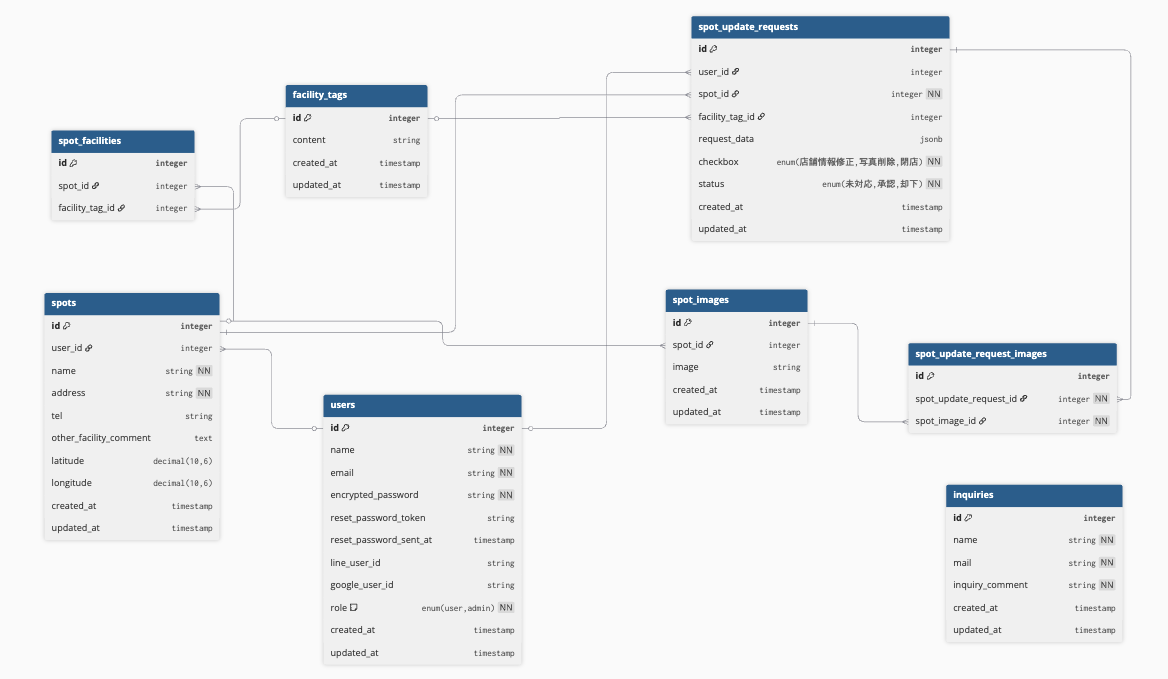
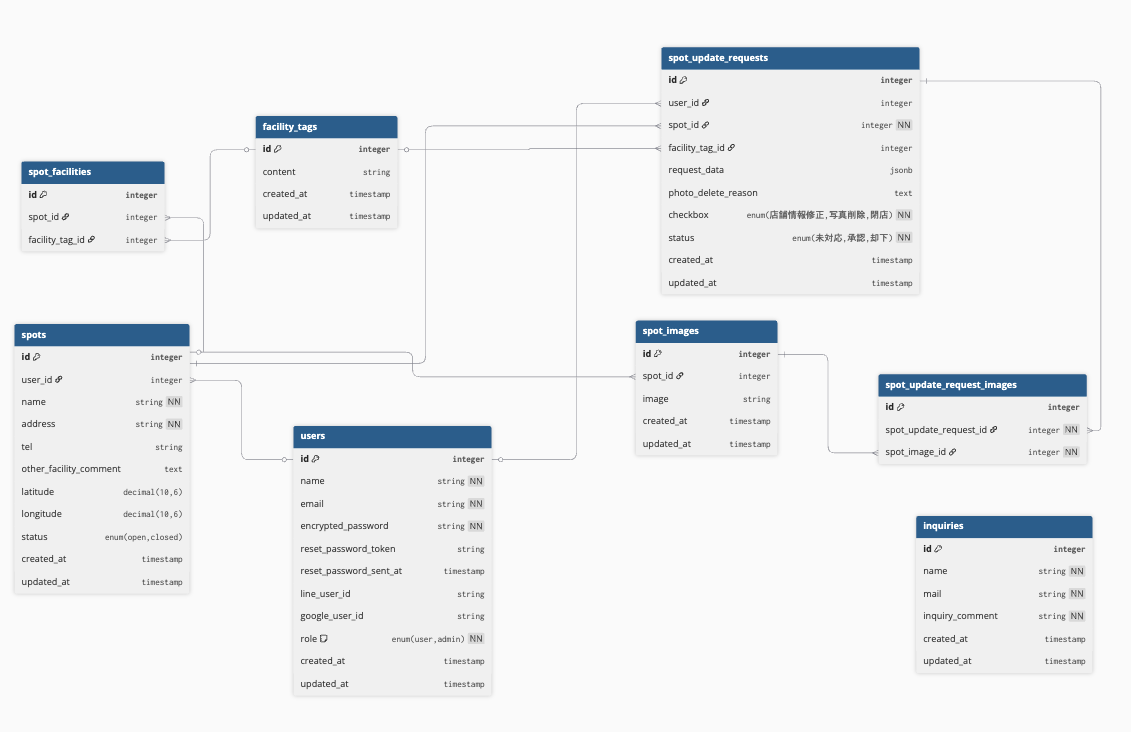
feat:各モデル修正 & docs: ER図に閉店ステータスカラムをspotsテーブルに追加

diff --git a/app/models/spot_update_request.rb b/app/models/spot_update_request.rb
@@ -6,12 +6,28 @@ class SpotUpdateRequest < ApplicationRecord
   belongs_to :facility_tag, optional: true
   has_many :spot_update_request_images, dependent: :destroy
 
-  validates :spot_id, presence: true
-  validates :checkbox, presence: true
-  validates :status, presence: true
-  validates :photo_delete_reason, presence: true
-
   # enum 定義
   enum checkbox: { spot_update: 0, image_delete: 1, closure: 2 }
   enum status: { pending: 0, approved: 1, rejected: 2 }
+
+  # ユーザー作成時バリデーション
+  with_options if: :user_submission? do
+    validates :checkbox, presence: true
+    # 写真削除依頼
+    validates :photo_delete_reason, presence: true, if: :image_delete?
+    validates :spot_update_request_images, presence: true, if: :image_delete?
+    # 店舗情報修正時
+    validate :spot_update_excludes_other_fields, if: :spot_update?
+    # 閉店依頼時
+    validate :closure_excludes_all_fields, if: :closure?
+  end
+
+  # 管理者編集時
+  with_options if: :admin_editing? do
+    validates :status, presence: true
+  end
+
+  # Concern 読み込み
+  # privateメゾットはapp/models/concerns/spot_update_request_private_methods.rbへ
+  include SpotUpdateRequestPrivateMethods
 end

diff --git a/app/models/concerns/spot_update_request_private_methods.rb b/app/models/concerns/spot_update_request_private_methods.rb
@@ -1,0 +1,26 @@
+# SpotUpdateRequest の private メソッド用
+module SpotUpdateRequestPrivateMethods
+  extend ActiveSupport::Concern
+
+  private
+
+  def image_delete?; checkbox == "image_delete"; end
+  def spot_update?; checkbox == "spot_update"; end
+  def closure?; checkbox == "closure"; end
+  def user_submission?; !admin_editing?; end
+  def admin_editing?; false; end
+
+  # 店舗情報修正時は写真削除できない
+  def spot_update_excludes_other_fields
+    if spot_update_request_images.any?
+      errors.add(:base, "店舗情報修正依頼のときは写真削除はできません")
+    end
+  end
+
+  # 閉店依頼時は写真削除も店舗情報修正もできない
+  def closure_excludes_all_fields
+    if spot_update_request_images.any? || facility_tag_id.present? || request_data.present?
+      errors.add(:base, "閉店依頼のときは写真削除や店舗情報変更はできません")
+    end
+  end
+end

diff --git a/db/schema.rb b/db/schema.rb
@@ -10,7 +10,7 @@
 #
 # It's strongly recommended that you check this file into your version control system.
 
-ActiveRecord::Schema[8.0].define(version: 2025_09_10_060519) do
+ActiveRecord::Schema[8.0].define(version: 2025_09_10_132923) do
   # These are extensions that must be enabled in order to support this database
   enable_extension "pg_catalog.plpgsql"
 
@@ -81,6 +81,7 @@ ActiveRecord::Schema[8.0].define(version: 2025_09_10_060519) do
     t.decimal "longitude", precision: 10, scale: 6
     t.datetime "created_at", null: false
     t.datetime "updated_at", null: false
+    t.integer "status", default: 0, null: false
     t.index ["address"], name: "index_spots_on_address"
     t.index ["user_id"], name: "index_spots_on_user_id"
   end

diff --git a/app/models/spot.rb b/app/models/spot.rb
@@ -1,11 +1,15 @@
 class Spot < ApplicationRecord
+  # 店舗情報が消えたら設備情報や写真・修正依頼も消える楔形
   belongs_to :user
   has_many :spot_facilities, dependent: :destroy
   has_many :facility_tags, through: :spot_facilities
   has_many :spot_images, dependent: :destroy
   has_many :spot_update_requests, dependent: :destroy
-  has_many :inquiries, dependent: :nullify
 
+  # 閉店フラグ
+  enum status: { open: 0, closed: 1 }
+
+  # belongs_to :userがあるからバリデーションが自動でかかるため user_idのバリデーションは不要
   validates :name, presence: true
   validates :address, presence: true
 end

diff --git a/app/models/spot_update_request_image.rb b/app/models/spot_update_request_image.rb
@@ -1,10 +1,7 @@
-# app/models/spot_update_request_image.rb
 class SpotUpdateRequestImage < ApplicationRecord
   belongs_to :spot_update_request
   belongs_to :spot_image
 
-  validates :spot_update_request_id, presence: true
-  validates :spot_image_id, presence: true
-
+  # 同じリクエストで同じ画像を2回登録できないようにする
   validates :spot_image_id, uniqueness: { scope: :spot_update_request_id }
 end

diff --git a/app/models/spot_facility.rb b/app/models/spot_facility.rb
@@ -1,10 +1,7 @@
 class SpotFacility < ApplicationRecord
-  # 多対対
+  # 中間テーブル
   belongs_to :spot
   belongs_to :facility_tag
-
-  validates :spot_id, presence: true
-  validates :facility_tag_id, presence: true
 
   # spot_id と facility_tag_id の組み合わせがユニークであることを保証
   validates :facility_tag_id, uniqueness: { scope: :spot_id }

diff --git a/app/models/inquiry.rb b/app/models/inquiry.rb
@@ -1,4 +1,5 @@
 class Inquiry < ApplicationRecord
+  # 独立したテーブル設計のため関連付けなし
   validates :name, presence: true
   validates :mail, presence: true
   validates :inquiry_comment, presence: true

diff --git a/app/models/user.rb b/app/models/user.rb
@@ -1,4 +1,5 @@
 class User < ApplicationRecord
+  # ユーザーが削除されても店舗情報や修正依頼は消えない
   has_many :spots, dependent: :nullify
   has_many :spot_update_requests, dependent: :nullify
 

diff --git a/db/migrate/20250910132923_add_status_to_spots.rb b/db/migrate/20250910132923_add_status_to_spots.rb
@@ -1,0 +1,6 @@
+class AddStatusToSpots < ActiveRecord::Migration[8.0]
+  def change
+    # 閉店・開店ステータス
+    add_column :spots, :status, :integer, default: 0, null: false
+  end
+end

diff --git a/app/models/spot_image.rb b/app/models/spot_image.rb
@@ -1,6 +1,4 @@
 class SpotImage < ApplicationRecord
   belongs_to :spot
   has_many :spot_update_request_images, dependent: :destroy
-
-  validates :spot_id, presence: true
 end

diff --git a/app/models/facility_tag.rb b/app/models/facility_tag.rb
@@ -1,5 +1,4 @@
 class FacilityTag < ApplicationRecord
-  # 多対多
   has_many :spot_facilities, dependent: :destroy
   has_many :spots, through: :spot_facilities
 
